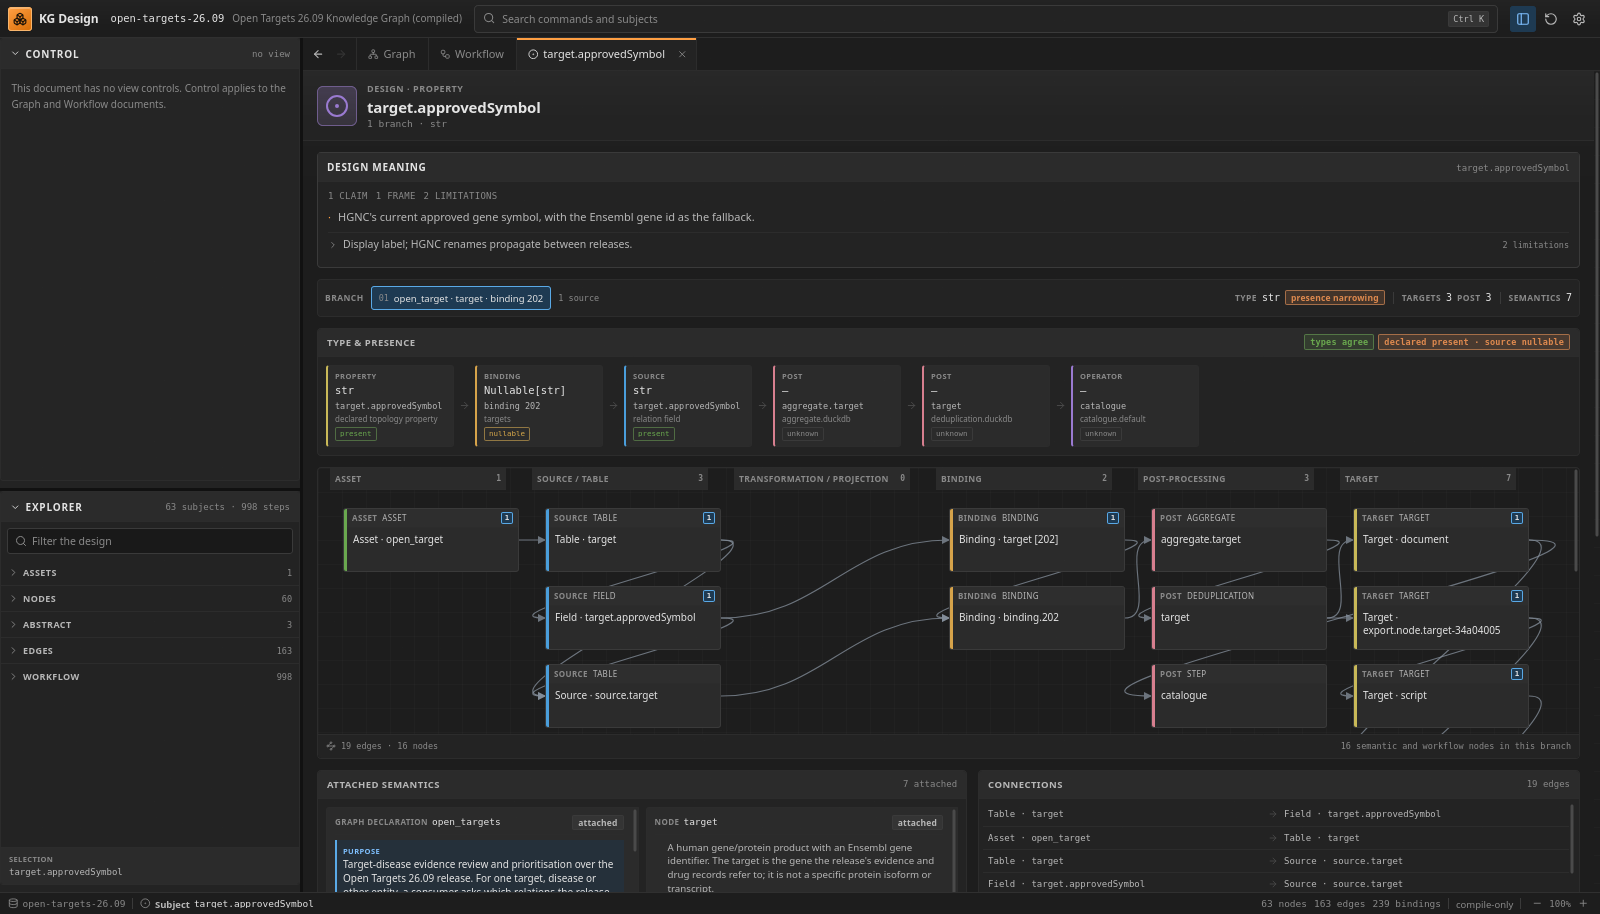
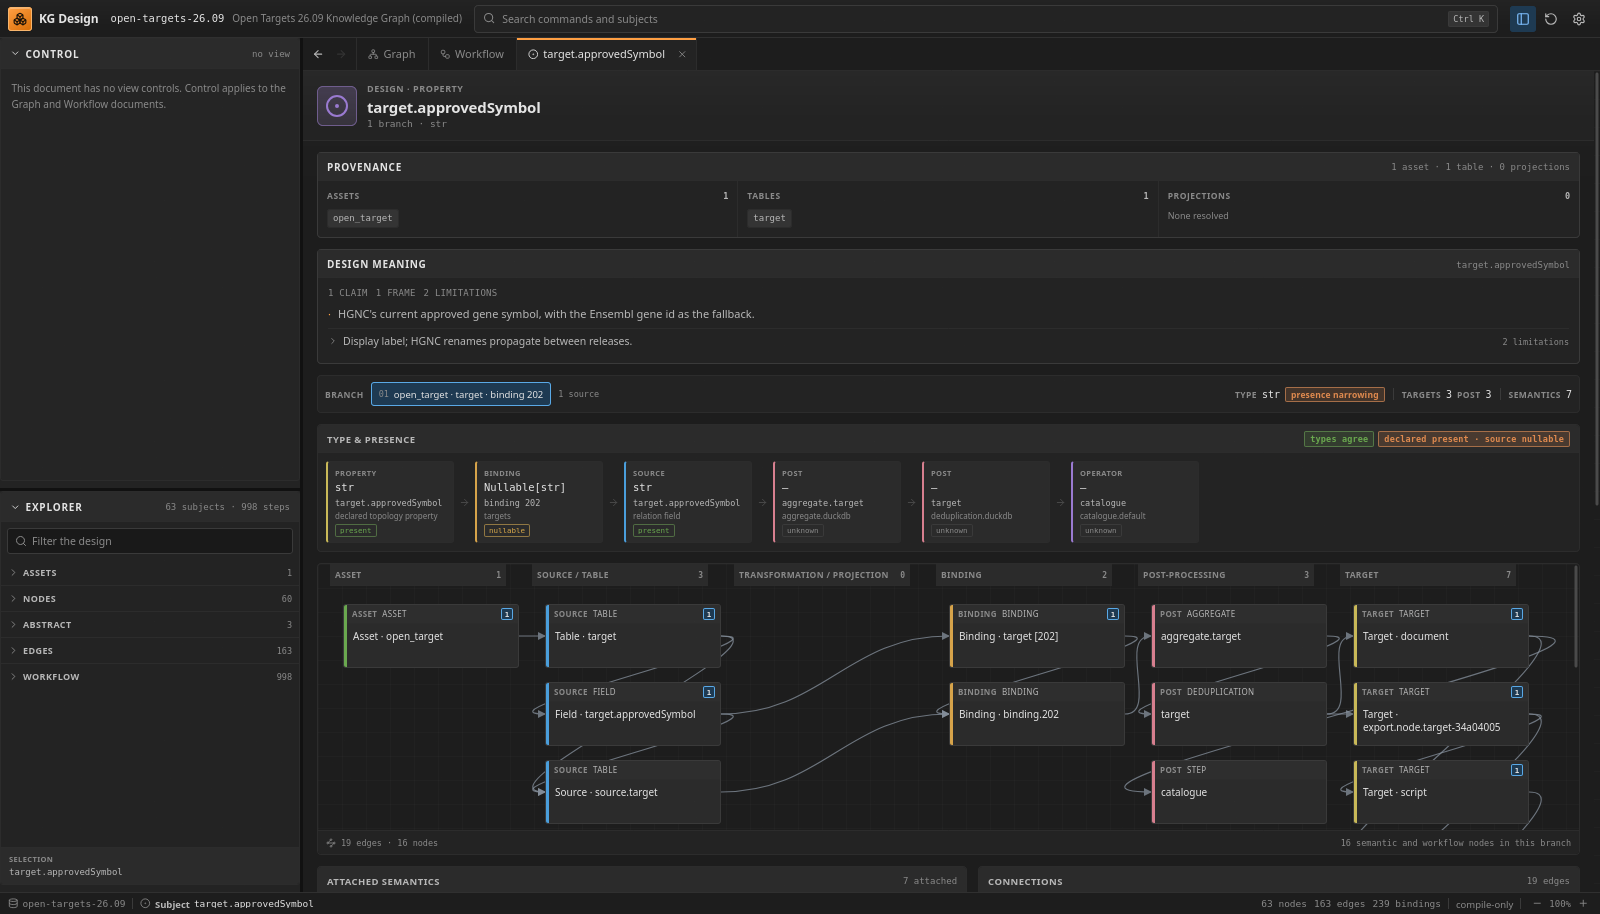
Lead node, edge and property details with provenance

diff --git a/viewer/detail/DetailFeature.tsx b/viewer/detail/DetailFeature.tsx
@@ -153,6 +153,119 @@ function levelSubtitle(model: ProofModel): string {
 }
 
 // ---------------------------------------------------------------------------
+// Provenance summary
+// ---------------------------------------------------------------------------
+
+interface ProvenanceSummary {
+  assets: string[];
+  tables: string[];
+  projections: string[];
+}
+
+function sortedNames(values: Iterable<string>): string[] {
+  return [...new Set(values)].sort((left, right) => left.localeCompare(right));
+}
+
+function provenanceSummary(model: ProofModel): ProvenanceSummary {
+  const assets: string[] = [];
+  const tables: string[] = [];
+  const projections: string[] = [];
+
+  if (model.level === "property") {
+    for (const { branch, nodes } of model.branches) {
+      assets.push(...branch.assetNames);
+      tables.push(...branch.sourceRelations);
+      for (const node of nodes) {
+        if (node.kind === "projection" && node.component) {
+          projections.push(node.component);
+        }
+      }
+    }
+  } else if (model.level === "node" || model.level === "edge") {
+    for (const property of model.component?.properties ?? []) {
+      assets.push(...property.assets);
+      tables.push(...property.sources);
+      projections.push(...property.projections);
+    }
+  }
+
+  return {
+    assets: sortedNames(assets),
+    tables: sortedNames(tables),
+    projections: sortedNames(projections),
+  };
+}
+
+function ProvenanceGroup({
+  label,
+  items,
+  testId,
+}: {
+  label: string;
+  items: string[];
+  testId: string;
+}) {
+  return (
+    <div className={styles.provenanceGroup} data-testid={testId}>
+      <p className={styles.provenanceGroupLabel}>
+        {label}
+        <span>{items.length}</span>
+      </p>
+      {items.length ? (
+        <div className={styles.provenanceItems}>
+          {items.map((item) => (
+            <span key={item} className={styles.provenanceChip} title={item}>
+              {item}
+            </span>
+          ))}
+        </div>
+      ) : (
+        <p className={styles.provenanceEmpty}>None resolved</p>
+      )}
+    </div>
+  );
+}
+
+function ProvenanceSection({ model }: { model: ProofModel }) {
+  const provenance = provenanceSummary(model);
+  const count = (value: number, singular: string) =>
+    `${value} ${value === 1 ? singular : `${singular}s`}`;
+  return (
+    <section
+      className={styles.provenance}
+      data-testid="detail-provenance"
+      aria-label="Provenance"
+    >
+      <header className={styles.provenanceHead}>
+        <span className={styles.provenanceTitle}>Provenance</span>
+        <span className={styles.provenanceMeta}>
+          {count(provenance.assets.length, "asset")} ·{" "}
+          {count(provenance.tables.length, "table")} ·{" "}
+          {count(provenance.projections.length, "projection")}
+        </span>
+      </header>
+      <div className={styles.provenanceGrid}>
+        <ProvenanceGroup
+          label="Assets"
+          items={provenance.assets}
+          testId="detail-provenance-assets"
+        />
+        <ProvenanceGroup
+          label="Tables"
+          items={provenance.tables}
+          testId="detail-provenance-tables"
+        />
+        <ProvenanceGroup
+          label="Projections"
+          items={provenance.projections}
+          testId="detail-provenance-projections"
+        />
+      </div>
+    </section>
+  );
+}
+
+// ---------------------------------------------------------------------------
 // Small shared pieces
 // ---------------------------------------------------------------------------
 
@@ -1387,7 +1500,7 @@ function PropertyTable({
         <span>Property</span>
         <span>Type</span>
         <span>Branches</span>
-        <span>Sources</span>
+        <span>Tables</span>
         <span>Bindings</span>
       </div>
       {properties.map((property) => (
@@ -1828,6 +1941,11 @@ function SubjectDetailEditor(props: WorkspaceProps) {
       title={levelTitle(model)}
       subtitle={levelSubtitle(model)}
     >
+      {model.level === "property" ||
+      model.level === "node" ||
+      model.level === "edge" ? (
+        <ProvenanceSection model={model} />
+      ) : null}
       <section className={styles.meaningPanel} aria-label="Design meaning">
         <header className={styles.meaningPanelHeader}>
           <span className={styles.meaningPanelTitle}>Design meaning</span>

diff --git a/viewer/detail/detail.module.css b/viewer/detail/detail.module.css
@@ -133,6 +133,120 @@
   gap: 11px;
 }
 
+/* ---- Provenance summary ---------------------------------------------- */
+
+.provenance {
+  margin-bottom: 11px;
+  border: 1px solid var(--color-line);
+  border-radius: 4px;
+  background-color: var(--color-panel);
+}
+
+.provenanceHead {
+  display: flex;
+  min-height: 28px;
+  align-items: center;
+  justify-content: space-between;
+  gap: 8px;
+  padding: 0 9px;
+  border-bottom: 1px solid var(--color-line-soft);
+  background-color: var(--color-panel-raised);
+}
+
+.provenanceTitle {
+  color: var(--color-text);
+  font-size: 10px;
+  font-weight: 600;
+  letter-spacing: 0.07em;
+  text-transform: uppercase;
+}
+
+.provenanceMeta {
+  overflow: hidden;
+  color: var(--color-faint);
+  font-family: var(--font-mono);
+  font-size: 9px;
+  text-overflow: ellipsis;
+  white-space: nowrap;
+}
+
+.provenanceGrid {
+  display: grid;
+  grid-template-columns: repeat(3, minmax(0, 1fr));
+}
+
+.provenanceGroup {
+  min-width: 0;
+  padding: 8px 9px 9px;
+  border-right: 1px solid var(--color-line-soft);
+}
+
+.provenanceGroup:last-child {
+  border-right: 0;
+}
+
+.provenanceGroupLabel {
+  display: flex;
+  align-items: baseline;
+  justify-content: space-between;
+  gap: 6px;
+  margin: 0;
+  color: var(--color-faint);
+  font-size: 8.5px;
+  font-weight: 600;
+  letter-spacing: 0.06em;
+  text-transform: uppercase;
+}
+
+.provenanceGroupLabel > span {
+  color: var(--color-muted);
+  font-family: var(--font-mono);
+  letter-spacing: 0;
+}
+
+.provenanceItems {
+  display: flex;
+  flex-wrap: wrap;
+  gap: 4px;
+  margin-top: 6px;
+}
+
+.provenanceChip {
+  display: inline-block;
+  max-width: 100%;
+  overflow: hidden;
+  padding: 2px 5px;
+  border: 1px solid var(--color-line-soft);
+  border-radius: 3px;
+  background-color: var(--color-panel-soft);
+  color: var(--color-muted);
+  font-family: var(--font-mono);
+  font-size: 9px;
+  text-overflow: ellipsis;
+  white-space: nowrap;
+}
+
+.provenanceEmpty {
+  margin: 6px 0 0;
+  color: var(--color-faint);
+  font-size: 9px;
+}
+
+@media (max-width: 900px) {
+  .provenanceGrid {
+    grid-template-columns: minmax(0, 1fr);
+  }
+
+  .provenanceGroup {
+    border-right: 0;
+    border-bottom: 1px solid var(--color-line-soft);
+  }
+
+  .provenanceGroup:last-child {
+    border-bottom: 0;
+  }
+}
+
 /* ---- Shared panel and badges ----------------------------------------- */
 
 .panel {

diff --git a/viewer/proof/model.ts b/viewer/proof/model.ts
@@ -525,6 +525,7 @@ export interface ProofPropertySummary {
   branchCount: number;
   sources: string[];
   assets: string[];
+  projections: string[];
   bindingIndexes: number[];
   steps: StepId[];
   semantics: ProofSemantics[];
@@ -542,11 +543,14 @@ function expressionFieldRefs(
 function entrySources(
   index: ViewerIndex,
   entry: ReturnType<typeof findComponentPropertyBindings>[number],
-): { sources: string[]; assets: string[] } {
+): { sources: string[]; assets: string[]; projections: string[] } {
   const fieldRefs = expressionFieldRefs(entry);
   const owners = fieldRefs
     .map((fieldRef) => index.fieldsByKey.get(fieldRefKey(fieldRef))?.ownerName)
     .filter((name): name is string => Boolean(name));
+  const projections = [
+    ...new Set(owners.filter((name) => index.projectionByName.has(name))),
+  ];
   const sources = [
     ...new Set(
       owners.flatMap((name) => {
@@ -568,7 +572,7 @@ function entrySources(
         .filter((name): name is string => Boolean(name)),
     ),
   ];
-  return { sources, assets };
+  return { sources, assets, projections };
 }
 
 function summariseProperty(
@@ -591,10 +595,12 @@ function summariseProperty(
   );
   const sources = new Set<string>();
   const assets = new Set<string>();
+  const projections = new Set<string>();
   for (const entry of uniqueEntries) {
     const resolved = entrySources(index, entry);
     for (const source of resolved.sources) sources.add(source);
     for (const asset of resolved.assets) assets.add(asset);
+    for (const projection of resolved.projections) projections.add(projection);
   }
   const semantics = dedupeSemantics(
     [
@@ -613,6 +619,7 @@ function summariseProperty(
     branchCount: uniqueEntries.length,
     sources: [...sources],
     assets: [...assets],
+    projections: [...projections],
     bindingIndexes: uniqueEntries.map((entry) => entry.binding.index),
     steps: uniqueEntries
       .map((entry) => entry.binding.step?.id)

diff --git a/viewer/tests/lineage.test.ts b/viewer/tests/lineage.test.ts
@@ -279,6 +279,7 @@ describe("proof model", () => {
     expect(title?.branchCount).toBe(1);
     expect(title?.assets).toEqual(["estate"]);
     expect(title?.sources).toEqual(["surveys"]);
+    expect(title?.projections).toEqual(["defect"]);
 
     const edge = buildProof(index, {
       level: "edge",

diff --git a/viewer/scripts/verify_design.py b/viewer/scripts/verify_design.py
@@ -940,6 +940,15 @@ def main() -> int:
                 ' [role="img"]',
             )
         )
+        report["checks"]["detail_provenance"] = bool(
+            driver.find_elements(By.CSS_SELECTOR, '[data-testid="detail-provenance"]')
+        )
+        report["checks"]["detail_provenance_groups"] = all(
+            driver.find_elements(
+                By.CSS_SELECTOR, f'[data-testid="detail-provenance-{group}"]'
+            )
+            for group in ("assets", "tables", "projections")
+        )
         report["checks"]["geometry_unchanged"] = geometry() == topology_geometry
         report["checks"]["detail_status"] = status()
         shot("04-detail-property")
@@ -962,6 +971,12 @@ def main() -> int:
         report["checks"]["preview_flags"] = preview_flags()
         report["checks"]["preview_opened"] = (
             len(tabs()) == len(before_preview) + 1 and preview_flags()[-1]
+        )
+        report["checks"]["preview_detail_kind"] = driver.find_element(
+            By.CSS_SELECTOR, '[data-testid="detail-editor"]'
+        ).get_attribute("data-detail-kind")
+        report["checks"]["preview_provenance"] = bool(
+            driver.find_elements(By.CSS_SELECTOR, '[data-testid="detail-provenance"]')
         )
 
         # The next single-click replaces the preview instead of adding a tab.

diff --git a/viewer/screenshots/README.md b/viewer/screenshots/README.md
@@ -12,10 +12,11 @@ They are review aids, not golden images.
 | `05-context-menu.png` | Right-clicking a node opens **Go to Detail**. |
 | `06-both-sections.png` | **Control** and **Explorer** are open together with an adjustable separator; Explorer still states the whole design, including Workflow. |
 | `07-preview-tab.png` | A single click in the graph Explorer opened one preview tab (`adverse_event`, italic). |
-| `08-detail-property.png` | **Go to Detail** on a property opened a permanent document with a large property logo in its banner, while the preview tab remained. |
+| `08-detail-property.png` | **Go to Detail** on a property opened a permanent document with a large property logo in its banner and a **Provenance** section listing its assets, tables and projections, while the preview tab remained. |
 | `09-explorer-menu.png` | Right-clicking an Explorer row offers **Go to Detail** and **Go to Graph**; workflow items offer **Go to Workflow**. |
 | `10-workflow-step-graph.png` | A selected workflow component opened with **Open step group**, showing its step-level flow graph inside the Workflow tab. The selected step highlights its incident boundary links and dims the other steps; **Open step** opens its detail document. Steps fill columns top-to-bottom without row wrapping. |
 | `11-workflow-selected-component.png` | Left-clicking a workflow component selects it without opening the step graph; its aggregated links highlight, the rest dim, and **Open step group** in the canvas toolbar is the explicit expansion control. |
+| `12-detail-node.png` | A node document opens with its **Provenance** section first: the resolved asset (`open_target`), table (`evidence_crispr`) and projection (`crispr_cell_line`) are stated before design meaning and properties. |
 
 A tab is a standalone document. It changes its editor and the applicable Control
 body; Explorer always states the whole design. Middle-click closes a subject or

diff --git a/viewer/HIERARCHY.md b/viewer/HIERARCHY.md
@@ -55,7 +55,7 @@ position.
 | **Graph** (pinned) | D3 force canvas, zoom/pan/drag and the floating **Inspect** window: graph purpose/overview when nothing is selected, or the selected entity's identity, properties and meaning; clicking empty space deselects |
 | **Workflow** (pinned) | compositor-style component graph with no title banner and a floating canvas toolbar; selecting a component and using **Open step group** drills into its step-level flow graph with column flow and boundary components; selecting a component, step or boundary node highlights its incident links and dims the other nodes in the same graph view, and entering another step group requires **Open step group**; drag to pan, wheel to zoom, Fit to reset; Back returns to components; filters from Control narrow the step graph |
 | **Step** | one workflow step's instruction, payload, openings, connections and blueprint bindings on the same detail surface as node and subject documents; opened from the workflow section of Explorer |
-| **Subject** (node, edge, property, asset, abstract) | design meaning, properties, attached semantics and, for a property, provenance lanes and type/presence |
+| **Subject** (node, edge, property, asset, abstract) | provenance assets, tables and projections first for node, edge and property; then design meaning, properties, attached semantics and, for a property, provenance lanes and type/presence |
 
 A node or property click in the canvas only changes transient inspection.
 Single-clicking an Explorer row opens or reuses one preview tab; double-clicking

diff --git a/viewer/README.md b/viewer/README.md
@@ -52,7 +52,7 @@ The first paint shows the design, not its annotations.
 | --- | --- | --- |
 | Graph document | graph canvas and floating **Inspect** window showing graph purpose and counts | selecting an entity fills Inspect with its description, properties and meaning; clicking empty space returns to graph purpose |
 | Workflow document | compositor-style component graph with step counts and aggregated connections; no title banner, actions in a floating canvas toolbar; drag to pan, wheel to zoom, Fit to reset | filter by component or instruction kind in Control; click a component to select it, then use **Open step group** to enter its step-level flow graph with columns filling top-to-bottom; clicking a step node selects it, **Open step** opens its detail document, and **Back** returns to components. Selecting a component, step or boundary node highlights its incident links and dims the other nodes and links; entering another step group requires **Open step group** |
-| Subject document | meaning, properties and attached semantics of the subject | property rows, the branch selector and the Explorer tree for another subject document |
+| Subject document | provenance assets, tables and projections first for node, edge and property documents; then meaning, properties and attached semantics | property rows, the branch selector and the Explorer tree for another subject document |
 
 There is no bottom panel. The side bar carries the **Control** and **Explorer**
 sections; the Graph document owns its floating **Inspect** window. A tab changes

diff --git a/viewer/DESIGN_LANGUAGE.md b/viewer/DESIGN_LANGUAGE.md
@@ -85,6 +85,11 @@ property, asset, abstract category or step. The Workflow and Graph documents are
 working surfaces; they have no banner, and their actions live in floating canvas
 toolbars. The tab already names the document.
 
+Node, edge and property documents open with a **Provenance** section that lists
+the resolved assets, tables and projections behind the subject, before design
+meaning and properties. It is a summary; the property document's lineage canvas
+shows the full branch.
+
 ## Panels and persistence
 
 - The shell owns side-bar visibility, width and the split between its sections.
